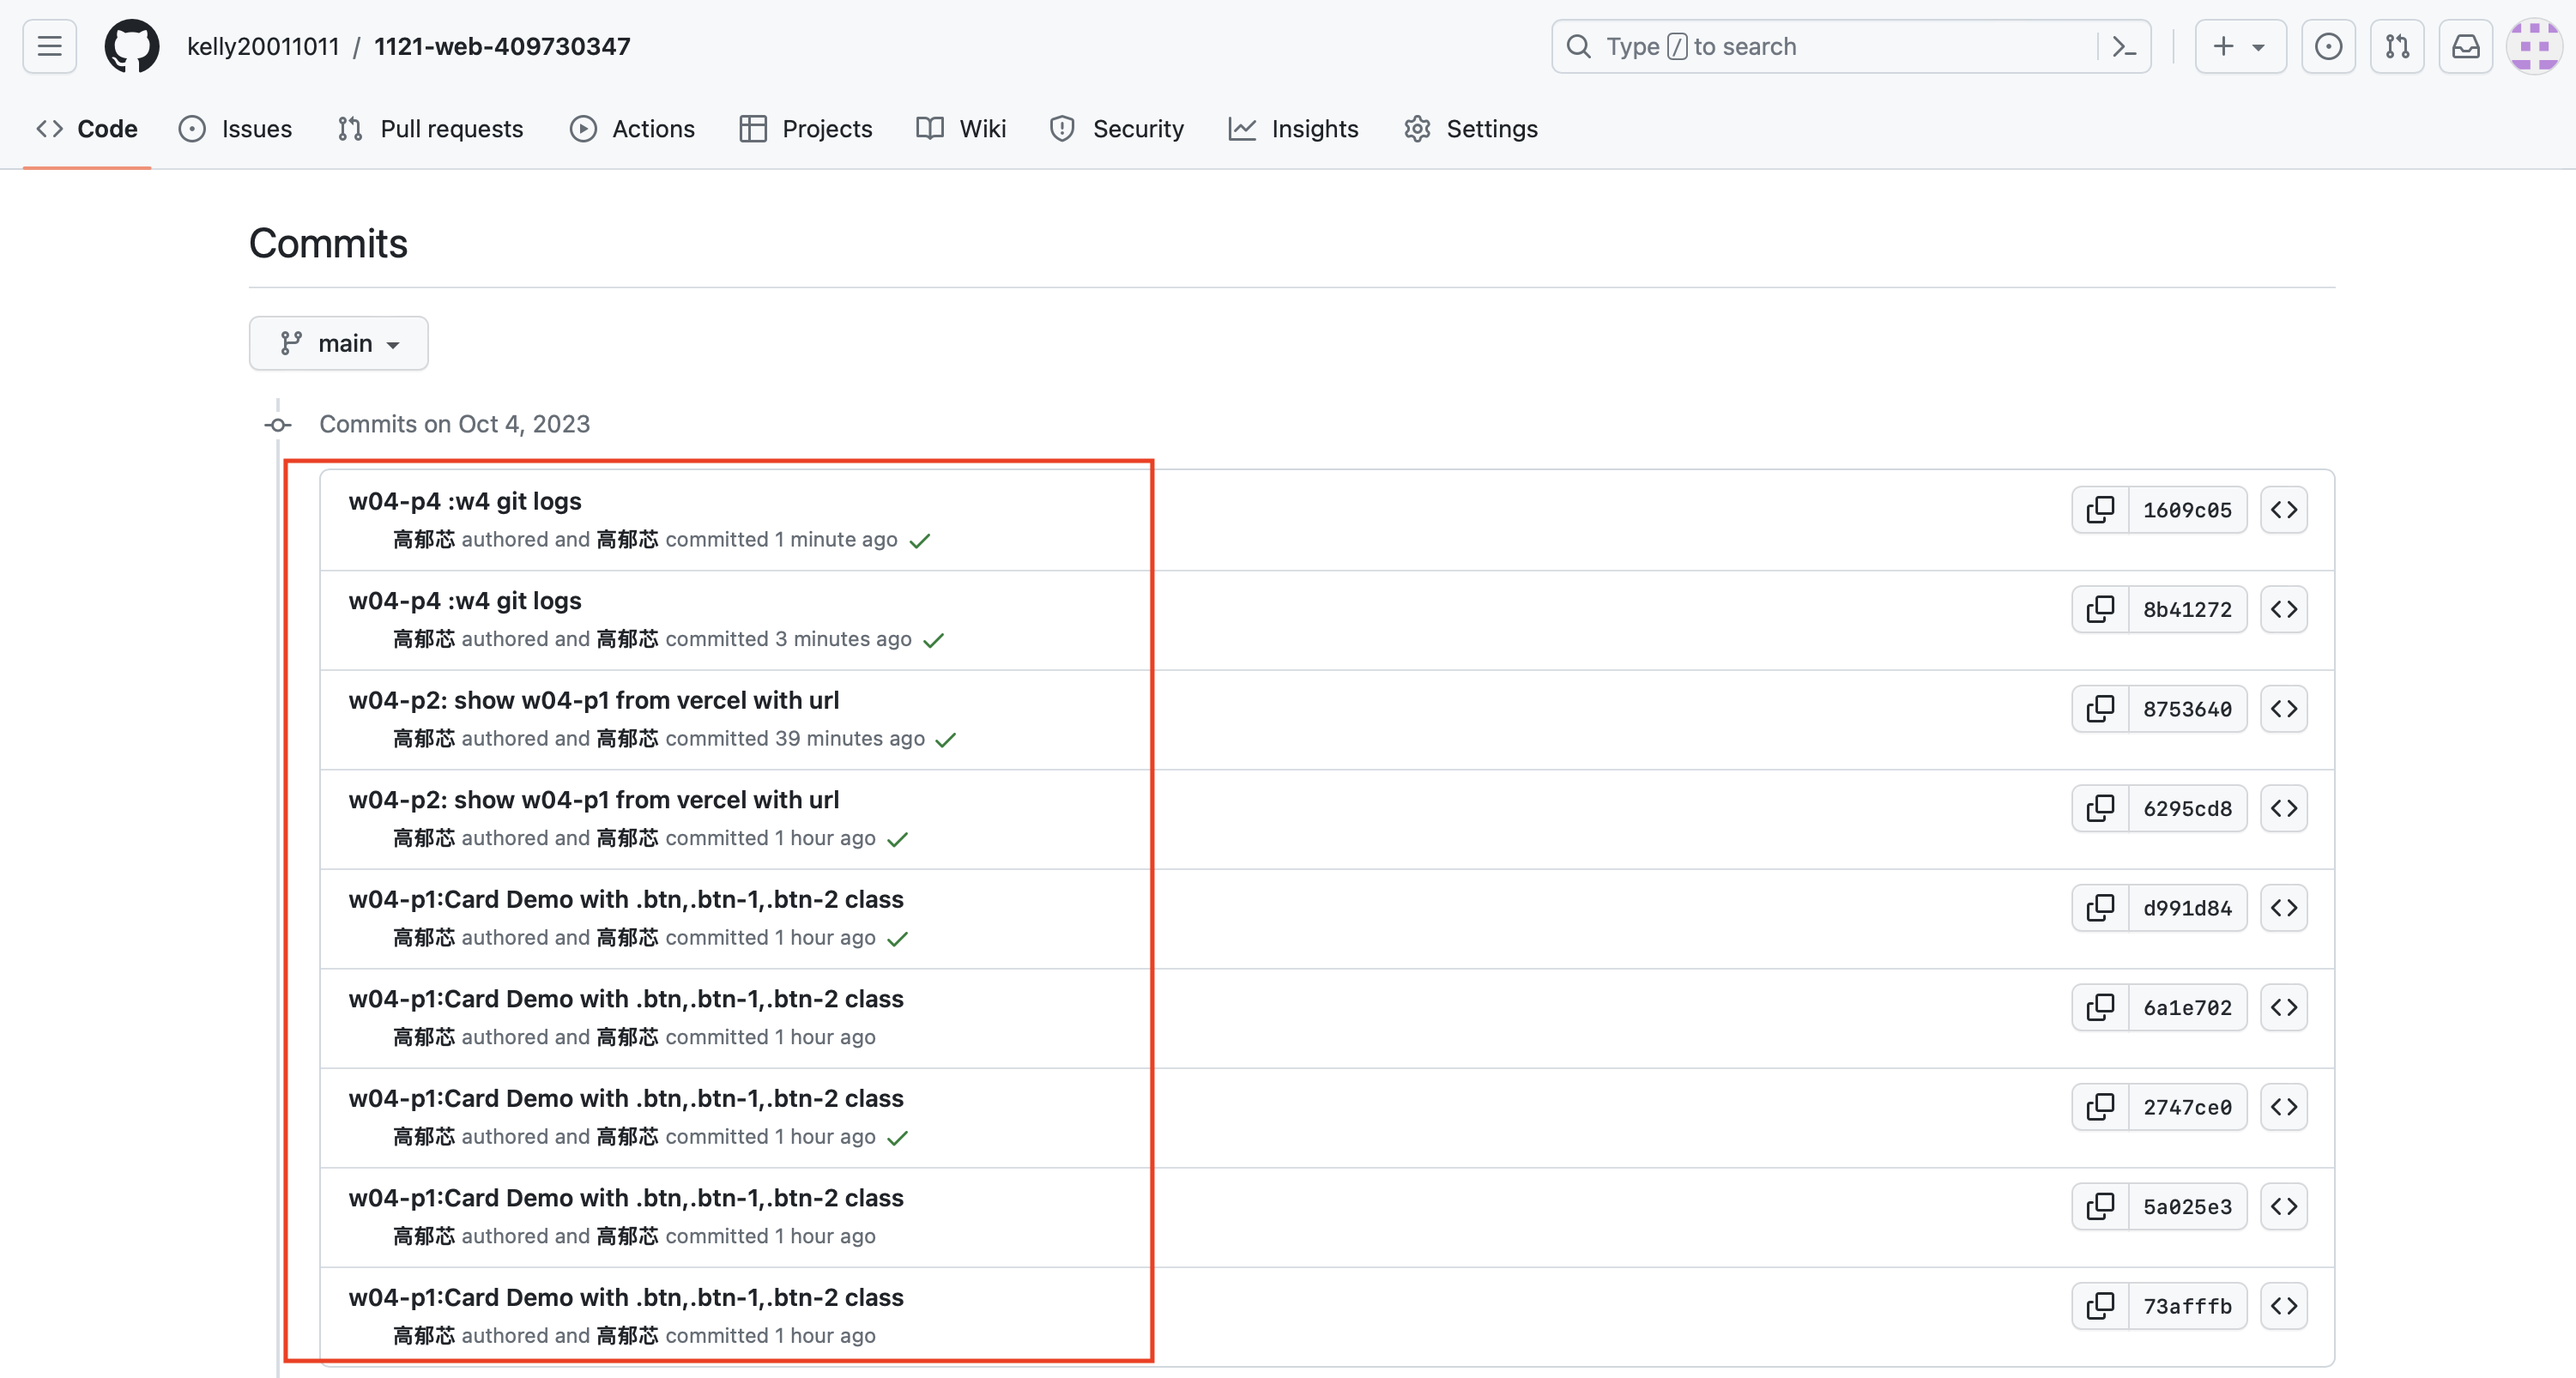
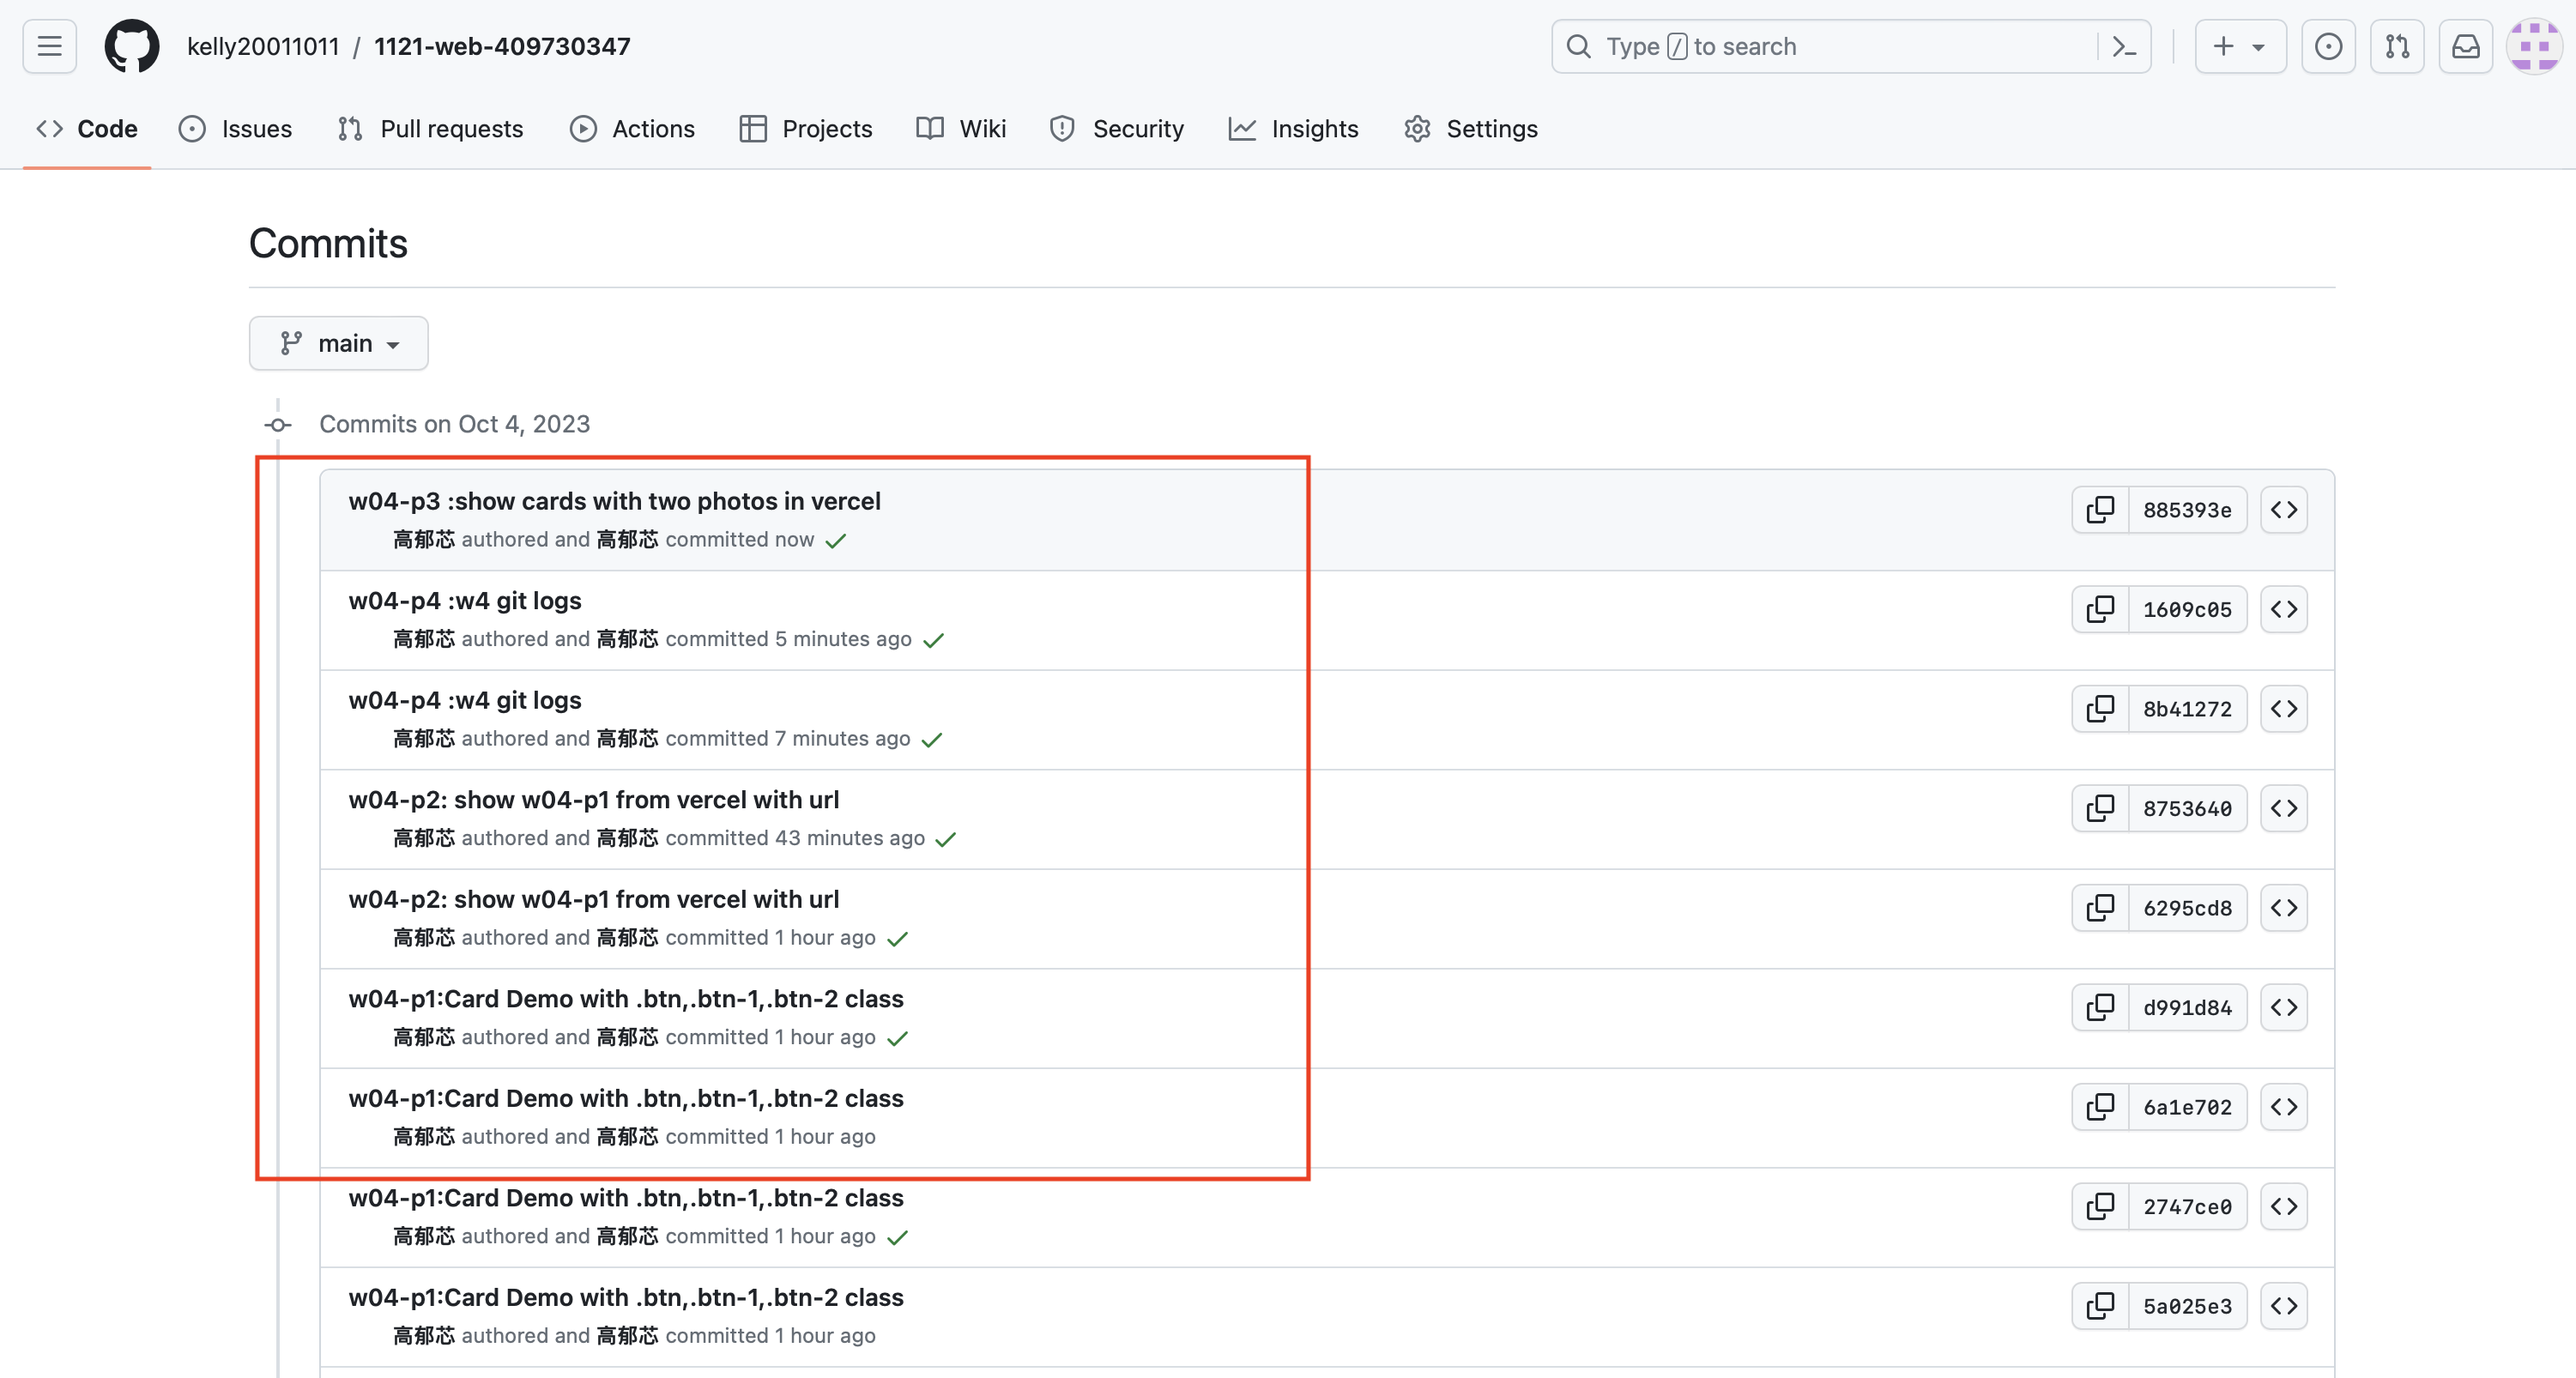
w04-p4 :w4 git logs

diff --git a/demo/md/w04_47_card_demo/w04_47.md b/demo/md/w04_47_card_demo/w04_47.md
@@ -6,7 +6,8 @@
 
 ```
 Author: 高郁芯 <gaoyuxin@gaoyuxindeMacBook-Pro.local>
-Date:   Wed Oct 4 13:53:02 2023 +0800 w04-p1:Card Demo with .btn,.btn-1,.btn-2 class
+Date:   Wed Oct 4 13:53:02 2023 +0800 
+w04-p1:Card Demo with .btn,.btn-1,.btn-2 class
 ```
 
 ### w04-p2: show w04-p1 from vercel with url
@@ -17,7 +18,8 @@ Date:   Wed Oct 4 13:53:02 2023 +0800 w04-p1:Card Demo with .btn,.btn-1,.btn-2 c
 $ git log --pretty=format:"%h%x09%an%x09%ad%x09%s" --after="2023-09-26"
 commit 6295cd861686a29f4fb4c0c95612c663a115632e (HEAD -> main, origin/main, origin/HEAD)
 Author: 高郁芯 <gaoyuxin@gaoyuxindeMacBook-Pro.local>
-Date:   Wed Oct 4 14:33:31 2023 +0800 w04-p2: show w04-p1 from vercel with url
+Date:   Wed Oct 4 14:33:31 2023 +0800 
+w04-p2: show w04-p1 from vercel with url
 ```
 
 
@@ -25,10 +27,10 @@ Date:   Wed Oct 4 14:33:31 2023 +0800 w04-p2: show w04-p1 from vercel with url
 [w04-p3 vercel url](https://1121-web-409730347.vercel.app/demo/md/w04_47_card_demo/)
 ![](w04-p3.png)
 ```
-commit 8753640f87011f26b3efaf90fbc19f8f156510f7 (HEAD -> main, origin/main, origin/HEAD)
+commit 885393ec3d53907c16d6f2e8ecf8f93564b7cb2b (HEAD -> main, origin/main, origin/HEAD)
 Author: 高郁芯 <gaoyuxin@gaoyuxindeMacBook-Pro.local>
-Date:   Wed Oct 4 14:58:18 2023 +0800
- w04-p2: show w04-p1 from vercel with url
+Date:   Wed Oct 4 15:40:52 2023 +0800
+w04-p3 :show cards with two photos in vercel
 ```
 ### w04-p4 :w4 git logs
 ![](w04-p4.png)
